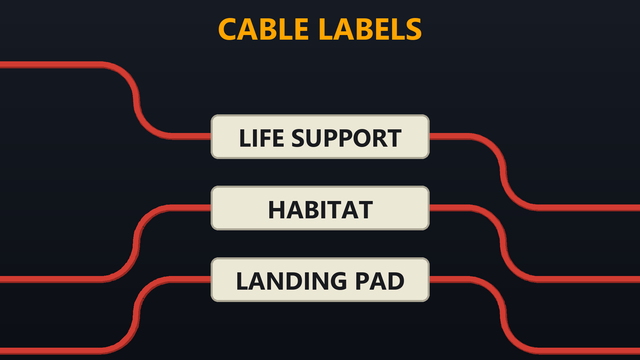
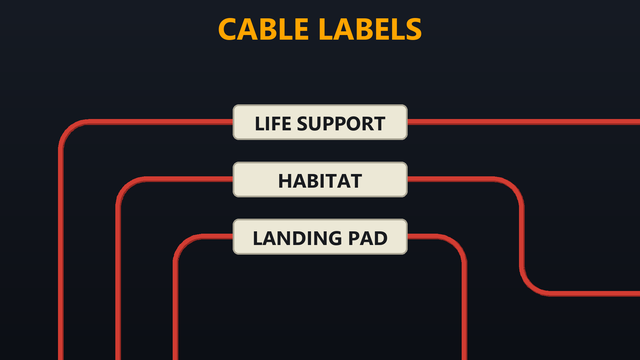
Route the About images' cables as laid out in game
Following Erica's in-game layout: orange comes down from the top and goes
back up, purple runs straight across, and the reds turn up from the
bottom in concentric corners, leaving by the side, by the side two rows
lower, and by the bottom. Routes are now corners on the cell grid, each
turned on a half-cell arc.

Assisted-by: Claude:claude-opus-5-5

Changed region(s): [[0.0, 0.1528, 1.0, 1.0]]

diff --git a/tools/make_images.py b/tools/make_images.py
@@ -4,14 +4,19 @@ LaunchPad needs both to register the mod; they live in Assets/About/. Run from t
 
     python tools/make_images.py
 
-Needs Pillow. The picture is a bundle of power cables, each with a label: they come in from
-different rows on the left, run parallel through the middle so the labels stack in a tidy
-column, and leave by different rows on the right.
+Needs Pillow. The picture is a bundle of power cables, each with a label, laid out as a player
+might run them in game, with the labels stacked in a tidy column where the runs are parallel:
 
-The cables follow the game's geometry. Rows are one 0.5 m cell apart. A standard cable is
-5 cm across, a tenth of a cell, and turns on a 25 cm radius, half a cell, so a jog to the next
-row is two quarter arcs back to back. The labels are drawn far larger than in game, to be
-readable.
+- orange comes down from the top, runs across and goes back up;
+- purple runs straight across;
+- the reds come up from the bottom and turn right in concentric corners. The top one runs
+  straight off the side, the middle one drops two rows and then leaves by the side, and the
+  bottom one turns down and leaves by the bottom.
+
+The cables follow the game's geometry. Rows and columns are one 0.5 m cell apart. A standard
+cable is 5 cm across, a tenth of a cell, and turns on a 25 cm radius, half a cell, so
+neighbouring corners are the same size, stepped a cell apart. The labels are drawn far larger
+than in game, to be readable.
 
 Colours follow the player convention: orange for power generation, purple for battery
 connections, red for everything else (grey would be data only). Preview.png has all five
@@ -38,21 +43,33 @@ ORANGE = ((236, 134, 36), (170, 92, 20))
 PURPLE = ((150, 86, 206), (100, 54, 146))
 RED = ((210, 60, 50), (150, 40, 34))
 
-# (label, colour, row it enters on the left, row it leaves by on the right), top to bottom in
-# the bundle. The bundle's runs sit in rows 1, 2, ...; each end is the run's own row, one above
-# (-1) or one below (+1). Each side keeps the bundle's order, so no two runs cross.
+
+# Each run is (label, colour, route). A route gives the run's corners in grid terms, given:
+#   row(n)  the height of row n; the labelled runs sit in rows 1, 2, ...
+#   left(k) the k-th column left of the labels, right(k) the k-th to their right (k = 0
+#           nearest), each far enough out that a corner there clears the labels;
+#   top, bottom, side_l, side_r  just off each edge of the picture.
+# The runs here keep clear of each other: the reds' corners nest a column apart.
+def reds(first):
+    """The three red runs, the top one in row `first`."""
+    a, b, c = first, first + 1, first + 2
+    return [
+        ("LIFE SUPPORT", RED, lambda g: [(g.left(2), g.bottom), (g.left(2), g.row(a)),
+                                         (g.side_r, g.row(a))]),
+        ("HABITAT", RED, lambda g: [(g.left(1), g.bottom), (g.left(1), g.row(b)),
+                                    (g.right(1), g.row(b)), (g.right(1), g.row(c + 1)),
+                                    (g.side_r, g.row(c + 1))]),
+        ("LANDING PAD", RED, lambda g: [(g.left(0), g.bottom), (g.left(0), g.row(c)),
+                                        (g.right(0), g.row(c)), (g.right(0), g.bottom)]),
+    ]
+
+
 FIVE = [
-    ("SOLAR FARM", ORANGE, -1, -1),
-    ("BATTERIES", PURPLE, -1, +1),
-    ("LIFE SUPPORT", RED, +1, +1),
-    ("HABITAT", RED, +1, +1),
-    ("LANDING PAD", RED, +1, +1),
-]
-THREE = [
-    ("LIFE SUPPORT", RED, -1, +1),
-    ("HABITAT", RED, +1, +1),
-    ("LANDING PAD", RED, +1, +1),
-]
+    ("SOLAR FARM", ORANGE, lambda g: [(g.left(1), g.top), (g.left(1), g.row(1)),
+                                      (g.right(1), g.row(1)), (g.right(1), g.top)]),
+    ("BATTERIES", PURPLE, lambda g: [(g.side_l, g.row(2)), (g.side_r, g.row(2))]),
+] + reds(3)
+THREE = reds(1)
 
 
 def font(size, bold=False):
@@ -68,29 +85,30 @@ def font(size, bold=False):
     return ImageFont.load_default()
 
 
-def path(x0, y0, x1, y1, bends, radius):
-    """Points along a run from (x0, y0) to (x1, y1): horizontal, with an S-bend of two quarter
-    arcs at each x in bends taking it to the next height in turn."""
-    points = [(x0, y0)]
-    y = y0
-    for bx, target in bends:
-        if target == y:
-            continue
-        s = 1 if target > y else -1
-        steps = 24
-        # Turn from heading right to heading along s, about a centre beside the bend.
-        cx, cy = bx, y + s * radius
+def rounded(corners, radius, steps=24):
+    """Points along a route through axis-aligned corners, each corner turned on a quarter arc
+    of the given radius."""
+    points = [corners[0]]
+    for prev, here, nxt in zip(corners, corners[1:], corners[2:]):
+        d1 = unit(prev, here)
+        d2 = unit(here, nxt)
+        start = (here[0] - d1[0] * radius, here[1] - d1[1] * radius)
+        end = (here[0] + d2[0] * radius, here[1] + d2[1] * radius)
+        centre = (start[0] + d2[0] * radius, start[1] + d2[1] * radius)
+        u = (start[0] - centre[0], start[1] - centre[1])
+        v = (end[0] - centre[0], end[1] - centre[1])
         for k in range(steps + 1):
             a = math.pi / 2 * k / steps
-            points.append((cx + radius * math.sin(a), cy - s * radius * math.cos(a)))
-        # Then straight on, if the jog is longer than two radii, and turn back to the right.
-        cx, cy = bx + 2 * radius, target - s * radius
-        for k in range(steps + 1):
-            a = math.pi / 2 * k / steps
-            points.append((cx - radius * math.cos(a), cy + s * radius * math.sin(a)))
-        y = target
-    points.append((x1, y))
+            points.append((centre[0] + math.cos(a) * u[0] + math.sin(a) * v[0],
+                           centre[1] + math.cos(a) * u[1] + math.sin(a) * v[1]))
+    points.append(corners[-1])
     return points
+
+
+def unit(a, b):
+    dx, dy = b[0] - a[0], b[1] - a[1]
+    length = math.hypot(dx, dy)
+    return dx / length, dy / length
 
 
 def cable(draw, points, thick, colours):
@@ -103,42 +121,58 @@ def cable(draw, points, thick, colours):
                   joint="curve")
 
 
-def render(w, h, runs):
+class Grid:
+    """Where rows, columns and the picture's edges are, in pixels."""
+
+    def __init__(self, w, h, rows, cell, label_left, label_right, thick):
+        self.cell = cell
+        self._top_row = rows
+        margin = cell * 0.5
+        self._left0 = label_left - margin - cell / 2
+        self._right0 = label_right + margin + cell / 2
+        self.top, self.bottom = -thick, h + thick
+        self.side_l, self.side_r = -thick, w + thick
+
+    def row(self, n):
+        return self._top_row + n * self.cell
+
+    def left(self, k):
+        return self._left0 - k * self.cell
+
+    def right(self, k):
+        return self._right0 + k * self.cell
+
+
+def render(w, h, runs, spare_rows):
     # Drawn at three times the size and scaled down, to smooth the arcs.
     k = 3
     w, h = w * k, h * k
     img = Image.new("RGB", (w, h))
     draw = ImageDraw.Draw(img)
-    for row in range(h):
-        t = row / (h - 1)
-        draw.line([(0, row), (w, row)],
+    for y in range(h):
+        t = y / (h - 1)
+        draw.line([(0, y), (w, y)],
                   fill=tuple(int(a + (b - a) * t) for a, b in zip(BG_TOP, BG_BOTTOM)))
 
     title = int(h * 0.085)
     draw.text((w / 2, h * 0.075), "CABLE LABELS", font=font(title, bold=True),
               fill=AMBER, anchor="mm")
 
-    # Rows a cell apart, the bundle's runs in rows 1 to n and a spare row above and below.
+    # Rows a cell apart: row 0 just under the title, the labelled runs in rows 1 to n, and
+    # spare rows below for runs that drop.
     top, bottom = h * 0.18, h * 0.975
-    cell = (bottom - top) / (len(runs) + 1)
-    row = lambda r: top + r * cell
+    cell = (bottom - top) / (len(runs) + spare_rows)
     thick = cell / 10
-    radius = cell / 2
     label_h = cell * 0.62
     text = font(int(label_h * 0.56), bold=True)
     label_w = max(draw.textlength(r[0], font=text) for r in runs) + label_h * 1.1
+    grid = Grid(w, h, top, cell, w / 2 - label_w / 2, w / 2 + label_w / 2, thick)
 
-    # Runs jogging the same way bend at the same x, nested as a real bundle is.
-    left_bend = w / 2 - label_w / 2 - w * 0.06 - 2 * radius
-    right_bend = w / 2 + label_w / 2 + w * 0.06
-    for i, (name, colours, end_in, end_out) in enumerate(runs):
-        r = i + 1
-        y_in, y, y_out = row(r + end_in), row(r), row(r + end_out)
-        cable(draw, path(-thick, y_in, w + thick, y_out,
-                         [(left_bend, y), (right_bend, y_out)], radius), thick, colours)
+    for name, colours, route in runs:
+        cable(draw, rounded(route(grid), cell / 2), thick, colours)
 
-    for i, (name, _, _, _) in enumerate(runs):
-        y = row(i + 1)
+    for i, (name, _, _) in enumerate(runs):
+        y = grid.row(i + 1)
         box = [w / 2 - label_w / 2, y - label_h / 2, w / 2 + label_w / 2, y + label_h / 2]
         draw.rounded_rectangle(box, radius=label_h / 6, fill=LABEL, outline=LABEL_EDGE,
                                width=max(1, int(label_h / 20)))
@@ -148,8 +182,10 @@ def render(w, h, runs):
 
 def main():
     about = ROOT / "Assets" / "About"
-    render(1280, 720, FIVE).save(about / "Preview.png", optimize=True)
-    render(640, 360, THREE).save(about / "thumb.png", optimize=True)
+    # The middle red drops two rows below the bottom one's, so each picture has a spare row
+    # below the labels besides row 0 above.
+    render(1280, 720, FIVE, 2).save(about / "Preview.png", optimize=True)
+    render(640, 360, THREE, 2).save(about / "thumb.png", optimize=True)
 
 
 if __name__ == "__main__":
